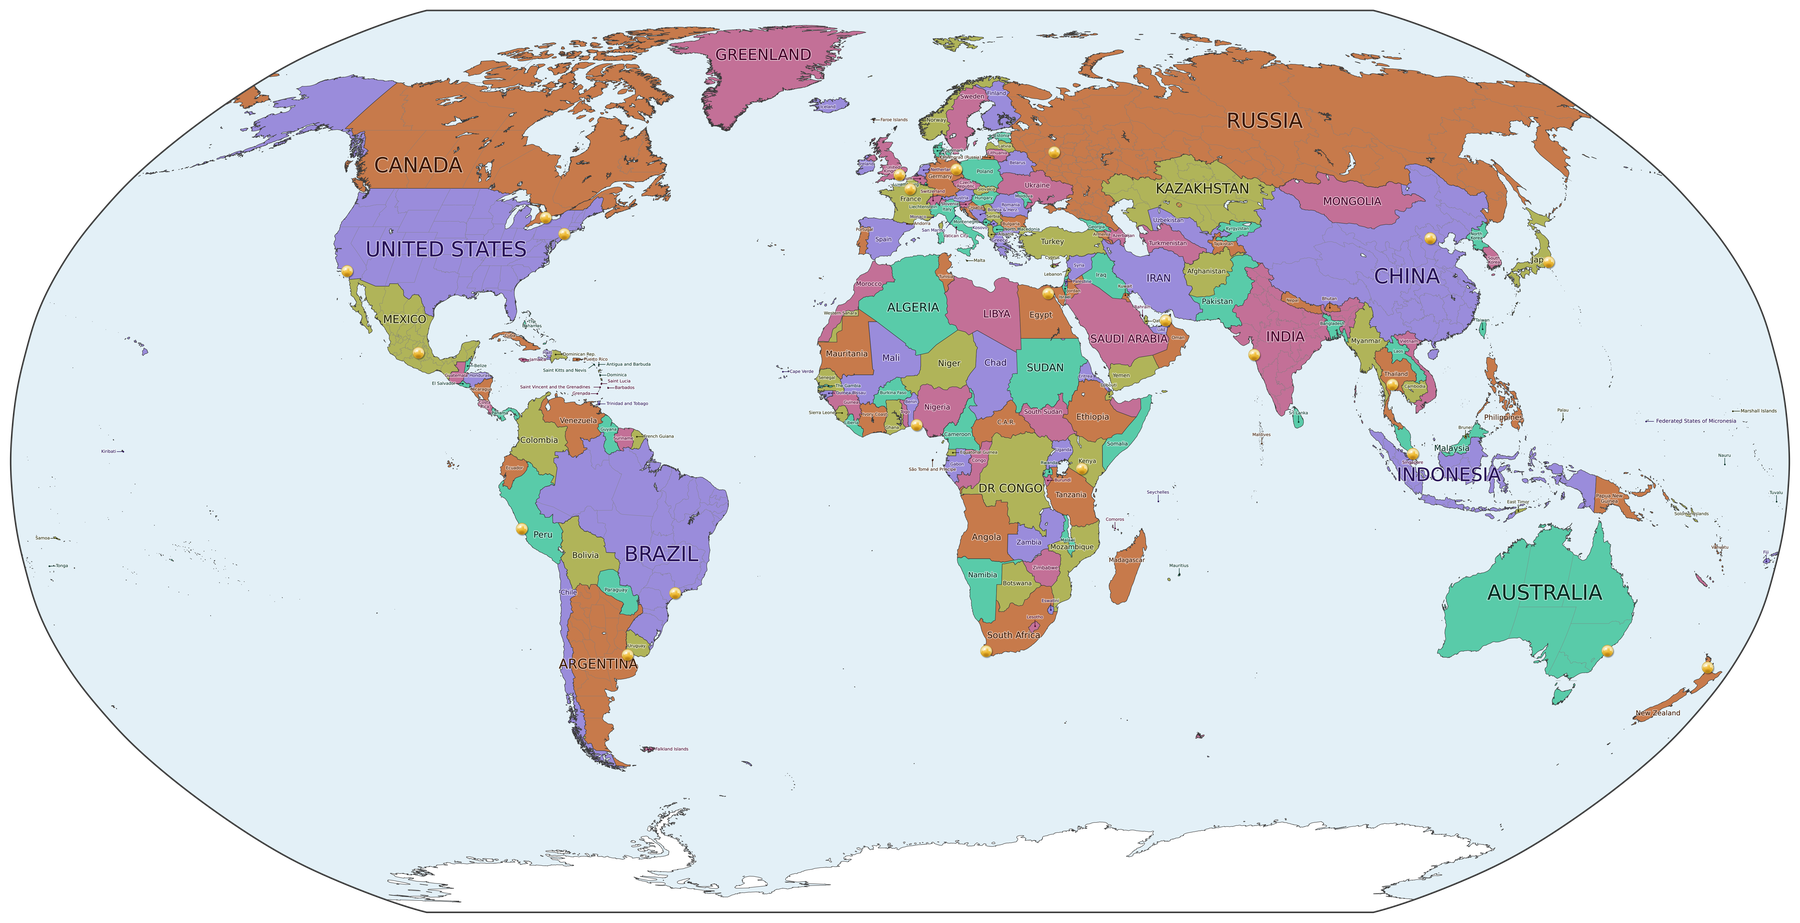
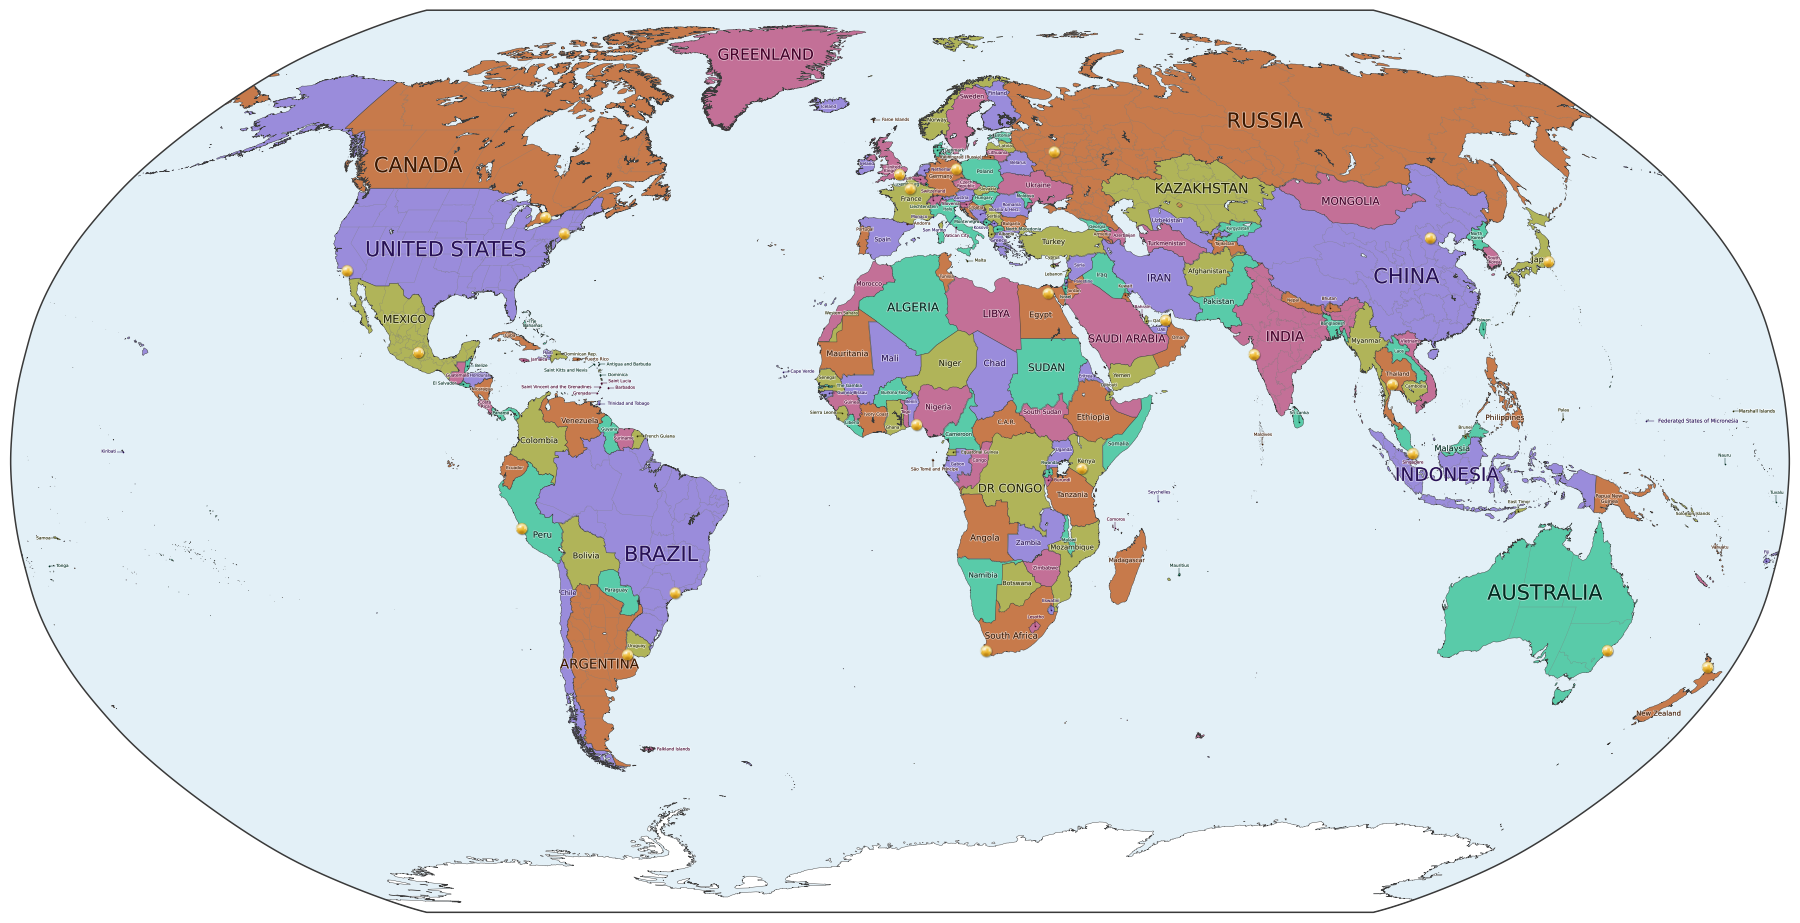
README; *: build examples natively with --resolution 50

diff --git a/README.md b/README.md
@@ -31,6 +31,7 @@ make_map --pins pins.txt      # draw the pins; writes worldmap_pins.png
 | `--earth` | Colour each region by what it looks like from space instead of distinct political colours. The first run downloads a ~75 MB raster. |
 | `--pins FILE` | Draw pins from `FILE`, one `lon,lat` per line (`#` starts a comment). |
 | `--pin-size IN` | Pin diameter in inches on the 36 in poster (default 0.24). |
+| `--resolution DPI` | Output dots per inch on the 36 in poster (default 200, i.e. 7200 px wide). The layout is the same at any resolution; e.g. `--resolution 50` makes an 1800 px preview. |
 | `--pick FILE` | Open the already-rendered map in a window. Left-click adds a pin, right-click or `u` undoes it, and closing the window appends the new pins to `FILE`. |
 | `--recolor` | Recompute the country colouring instead of using the cached one. |
 
@@ -38,12 +39,12 @@ A run takes about 10 s once the data is downloaded. Output goes to the current d
 
 ## Examples
 
-The images in [`examples/`](examples) are scaled down to 1800 px wide; the real output is 7200 px.
+The images in [`examples/`](examples) are rendered at `--resolution 50` (1800 px wide); the default is 200 dpi (7200 px).
 
 Political colours (the default):
 
 ```
-make_map examples/political.png
+make_map examples/political.png --resolution 50
 ```
 
 ![Political world map](examples/political.png)
@@ -51,7 +52,7 @@ make_map examples/political.png
 Natural colours with `--earth`:
 
 ```
-make_map examples/earth.png --earth
+make_map examples/earth.png --earth --resolution 50
 ```
 
 ![World map in natural colours](examples/earth.png)
@@ -59,7 +60,7 @@ make_map examples/earth.png --earth
 Pins from [`examples/pins.txt`](examples/pins.txt), a list of 23 large cities:
 
 ```
-make_map examples/pins.png --pins examples/pins.txt
+make_map examples/pins.png --pins examples/pins.txt --resolution 50
 ```
 
 ![World map with pins on large cities](examples/pins.png)
